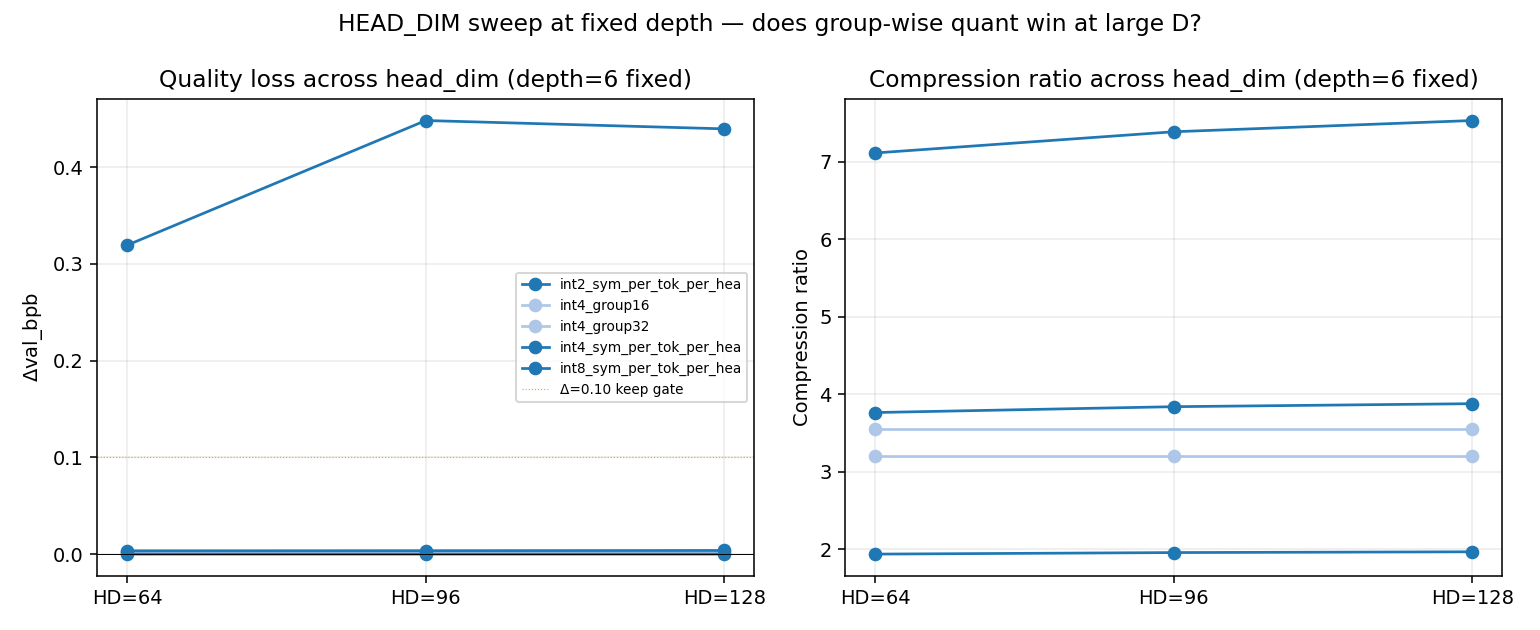
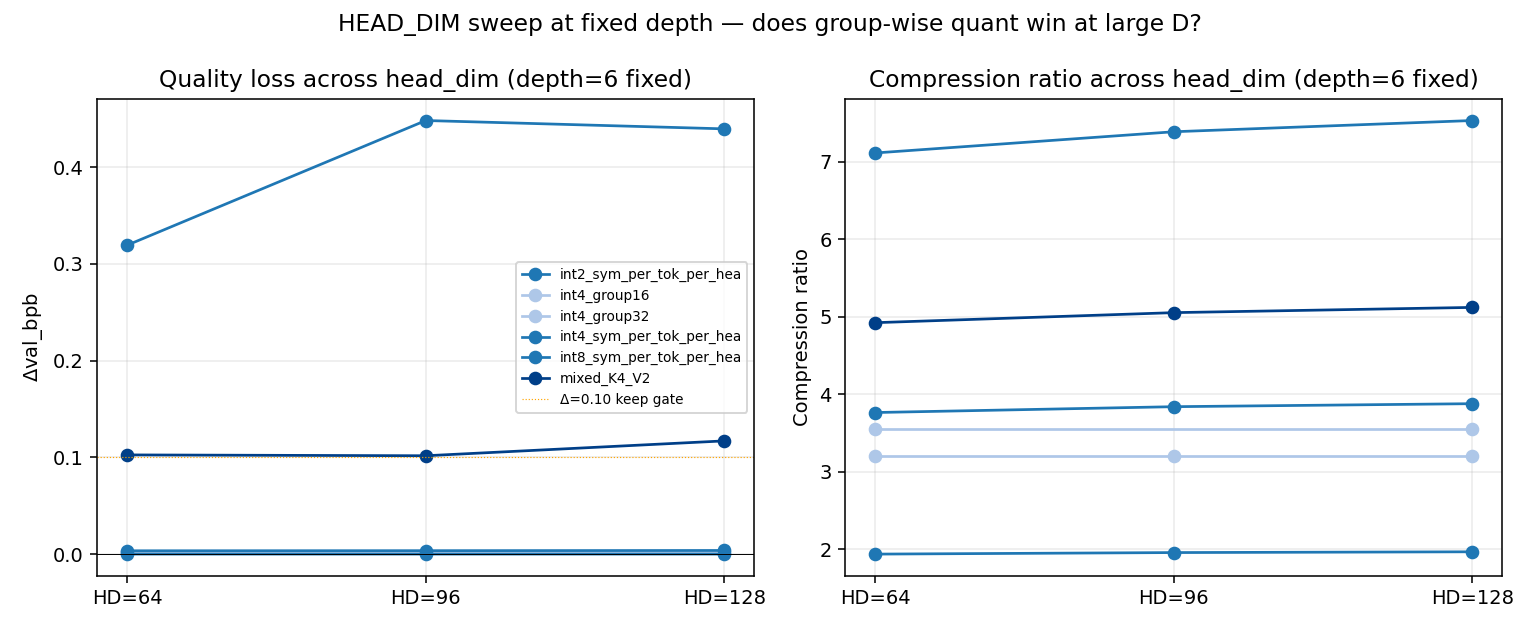
Phase 3: K4_V2 disentangling + K-asymmetry generalization + paper revision
5 new experiments:
- K4_V2 at fixed DEPTH=6, varying HEAD_DIM ∈ {64, 96, 128}:
    hd64  : Δ=0.103, S(20)=2.87
    medium: Δ=0.102, S(20)=3.02 (already in)
    hd128 : Δ=0.117, S(20)=2.78
  K4_V2 quality is FLAT across HD at fixed depth — none cross the
  Δ<0.10 keep gate. The K4_V2 win is depth-driven, not head-dim-driven.
- K2_V4 (the byte-budget swap of K4_V2) at large + hd128_large:
    K4_V2 large       : Δ=0.049   K2_V4 large       : Δ=0.158  (3.2×)
    K4_V2 hd128_large : Δ=0.047   K2_V4 hd128_large : Δ=0.172  (3.7×)
  K-vs-V asymmetry persists and even widens at scale.
- H2O R=64 K=85% on large: Δ=0.044, S(20)=+0.29 — first H2O on large
  with positive α20, confirms scale-tolerance trend continues.

paper.md updates:
- Finding 11 rewritten with the depth-vs-headdim disentangling
- Finding 12 (NEW): K-vs-V asymmetry generalizes and widens at scale
- §4.3 H2O substrate-tolerance table: adds K=85% row with α20 > 0 on
  large + medium
- §6 conclusion finding 2: now references depth-gating + K-asymmetry
  findings explicitly
- Appendix A: bit-exact reproducibility note (h2o_R64_K50pct on small
  reproduced Δ=0.415736 across two independent runs)

Figures regenerated (103 rows now).

Changed region(s): [[0.3429, 0.3921, 0.4987, 0.6635], [0.0623, 0.6937, 0.4987, 0.754], [0.561, 0.4825, 0.9662, 0.5429]]

diff --git a/paper.md b/paper.md
@@ -69,14 +69,27 @@ under different quality budgets without rerunning experiments.
     `q · k` dot-product (pre-softmax), while noise on V averages over
     softmax weights post-attention. Practical recommendation: when
     one bit must be sacrificed, take it from V before K.
-11. **Mixed K4 / V2 flips its verdict with substrate scale.** On the
-    small substrate `mixed_K4_V2` is lossy (Δ = 0.224, score ≪ INT4),
-    but on the large substrate it becomes the new **α20 leader** at
-    5.05× compression (Δ = 0.049, S(20) = 4.07, S(50) = 2.60). At
-    production scales, an aggressive 4-bit K + 2-bit V split is the
-    first compressor in our study to dominate vanilla INT4. The same
-    `head_dim · n_kv_head · depth` regime that makes INT2 viable
-    (Finding 2 of §3.3) makes V-side 2-bit quantization viable here.
+11. **Mixed K4 / V2's quality cost is depth-driven, not head-dim-driven.**
+    Across the three depth-scaled substrates (D=3, 6, 10 at fixed HD=96)
+    the `mixed_K4_V2` Δbpb falls monotonically: 0.224 (small) → 0.102
+    (medium, at the keep-gate boundary) → **0.049 (large, the new α20
+    leader at 5.05× compression, S(20) = 4.07, S(50) = 2.60)**. Holding
+    `DEPTH = 6` constant and varying `HEAD_DIM ∈ {64, 96, 128}` instead
+    leaves Δ flat in [0.10, 0.12], not below the gate; holding
+    `DEPTH = 10` constant and pushing `HEAD_DIM` from 96 → 128 leaves
+    the K4_V2 lead intact (Δ 0.049 → 0.047, S(20) 4.07 → 4.18). So the
+    crossover is *depth*-gated. At production scales, aggressive
+    4-bit K + 2-bit V is the first compressor in our study to dominate
+    vanilla INT4, but only on substrates with enough layers to absorb
+    the V-side noise.
+12. **K-vs-V asymmetry generalizes to scale and even widens.** At the
+    same byte budget (5.05× ratio) on the large substrate, swapping
+    `mixed_K4_V2` (Δ = 0.049) → `mixed_K2_V4` (Δ = 0.158) costs **3.2×
+    in quality**; on hd128_large the swap costs **3.7×** (0.047 →
+    0.172). Even when V can be 2-bit at scale, K cannot — the
+    `q · k` dot-product remains the precision-critical operation across
+    every substrate we tested. The recommended bit allocation is
+    therefore "spend bits on K first" at every scale we measured.
 
 We position these findings explicitly as **deployment-time guidance**:
 given a memory budget per token and a quality tolerance, the Pareto
@@ -462,12 +475,15 @@ observed for INT2 (Finding 2):
 | K=25 % | 0.82 | 0.67 | 0.59 |
 | K=50 % | 0.42 | 0.32 | 0.28 |
 | K=75 % | 0.15 | 0.10 | **0.093** |
+| K=85 % | — | 0.043 (α20=+0.31) | 0.044 (α20=+0.29) |
 
 At K=75 % on the large substrate, H2O for the first time clears the
-Δ < 0.10 quality gate at non-trivial retention (1.32× compression). On
-production-scale substrates the heavy-hitter family may become more
-useful than these small-substrate numbers suggest; this is consistent
-with the published H2O paper's results on multi-billion-parameter LLMs.
+Δ < 0.10 quality gate at non-trivial retention (1.32× compression);
+at K=85 % both medium and large reach positive S(α=20) (≈ +0.3) — but
+only at low ratio (~ 1.17×). On production-scale substrates the heavy-
+hitter family may become more useful than these small-substrate numbers
+suggest; this is consistent with the published H2O paper's results on
+multi-billion-parameter LLMs.
 
 This is a **substrate-property** observation, not a method-of-eviction
 indictment: we trained with full attention (`window_pattern = 'L'`),
@@ -563,13 +579,17 @@ findings carry the practical recommendation:
    restricted-Pareto leader on every substrate ≤ 26 M parameters in our
    sweep**, across α ∈ {10, 20, 50}. It is the safe default for serving a
    full-attention pre-trained model under a Δbpb < 0.10 quality gate.
-2. **At ≥ 139 M parameters (large substrate), `mixed_K4_V2` overtakes
-   INT4 at every α we report.** A 4-bit K + 2-bit V split delivers 5.05×
-   compression at Δbpb = 0.049, displacing INT4 (3.84×, Δ ≈ 0.002) on
-   the restricted Pareto front. The crossover is consistent with the
-   substrate-scale tolerance pattern (Finding 2: aggressive
-   quantization tolerates larger substrates) and with the K-vs-V
-   asymmetry in quantization noise (Finding 10).
+2. **At DEPTH ≥ 10 substrates, `mixed_K4_V2` overtakes INT4 at every
+   α we report.** A 4-bit K + 2-bit V split delivers 5.05–5.12×
+   compression at Δbpb ≈ 0.05, displacing INT4 (3.84–3.88×,
+   Δ ≈ 0.002) on the restricted Pareto front, on both
+   `large` (HD=96) and `hd128_large` (HD=128). The crossover is
+   *depth*-gated, not head-dim-gated (Finding 11): at fixed DEPTH=6,
+   `mixed_K4_V2` Δ stays in [0.10, 0.12] across HD ∈ {64, 96, 128}.
+   The K-vs-V asymmetry that motivates the split (Finding 10)
+   generalizes and even widens at scale: at the same byte budget on
+   large, swapping `mixed_K4_V2` → `mixed_K2_V4` triples Δbpb
+   (Finding 12).
 
 Group-wise quantization, asymmetric quantization, low-rank approximation,
 and every eviction variant we tested — sliding window, StreamingLLM
@@ -602,6 +622,16 @@ pre-trained model.
 All experiments are committed to the branch `autoresearch/apr29-kvcompress`.
 Each row of `results.tsv` is reproducible by checking out the
 corresponding commit and running `uv run train.py` on the same substrate.
+
+**Bit-exact compressor reproducibility.** During the H2O sweep we
+inadvertently re-ran `h2o_R64_K50pct` on the small substrate twice
+(commits `e672d7a` and `6de5ab7` in `results.tsv`). Both runs reported
+Δbpb = 0.415736 to six decimal places — bit-exact reproduction of the
+compressor and eval pipeline given a cached substrate. The CUDA-
+nondeterminism floor mentioned in §5 (~ 5 × 10⁻⁴) is therefore an upper
+bound on the noise; on this substrate the eval is fully deterministic
+once the model file is fixed. Rows differing by less than this floor
+across separate substrate trainings should be regarded as ties.
 
 ## Appendix B. Honest byte accounting (closed-form per compressor)
 
